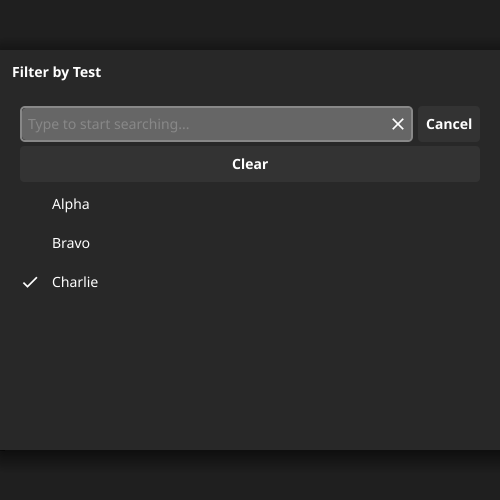
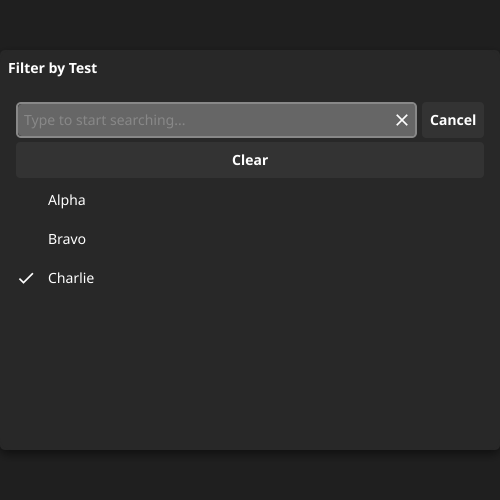
chore: upgrade to fyne 2.8

diff --git a/widget/filterchipgroup.go b/widget/filterchipgroup.go
@@ -6,8 +6,6 @@ import (
 	"fyne.io/fyne/v2/layout"
 	"fyne.io/fyne/v2/theme"
 	"fyne.io/fyne/v2/widget"
-
-	kxlayout "github.com/ErikKalkoken/fyne-kx/layout"
 )
 
 // FilterChipGroup allows the user to toggle multiple filters with filter chips.
@@ -103,7 +101,7 @@ func (w *FilterChipGroup) setSelected(s []string) {
 func (w *FilterChipGroup) CreateRenderer() fyne.WidgetRenderer {
 	w.setSelected(w.Selected)
 	p := w.Theme().Size(theme.SizeNamePadding)
-	box := container.New(kxlayout.NewRowWrapLayoutWithCustomPadding(2*p, 2*p))
+	box := container.New(layout.NewRowWrapLayoutWithCustomPadding(2*p, 2*p))
 	for _, c := range w.chips {
 		box.Add(c)
 	}
